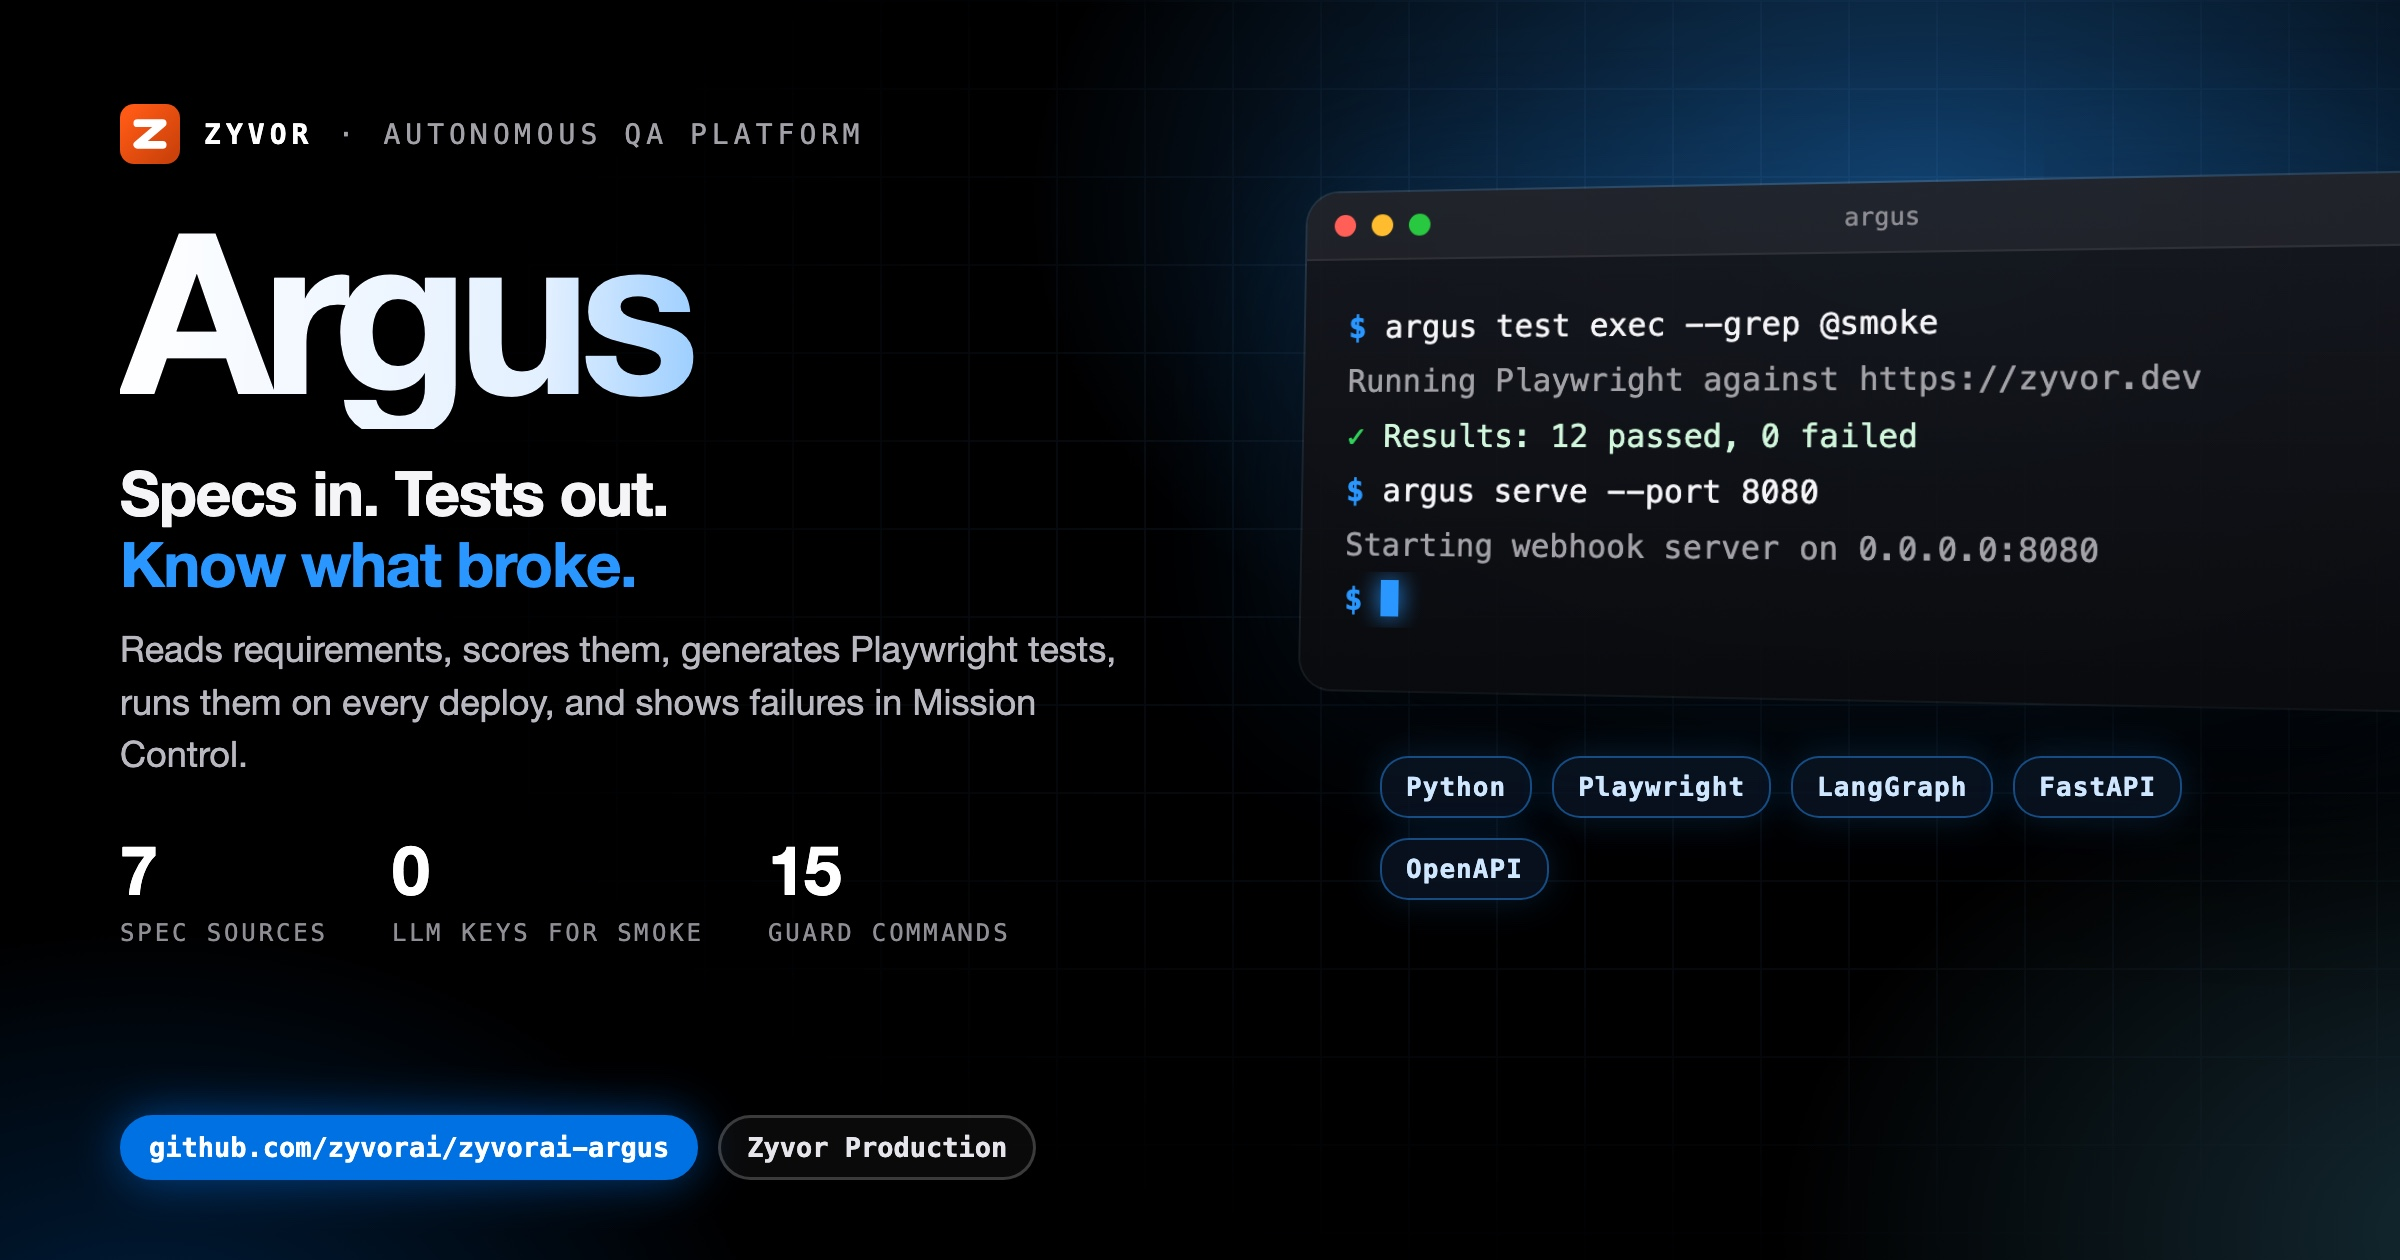
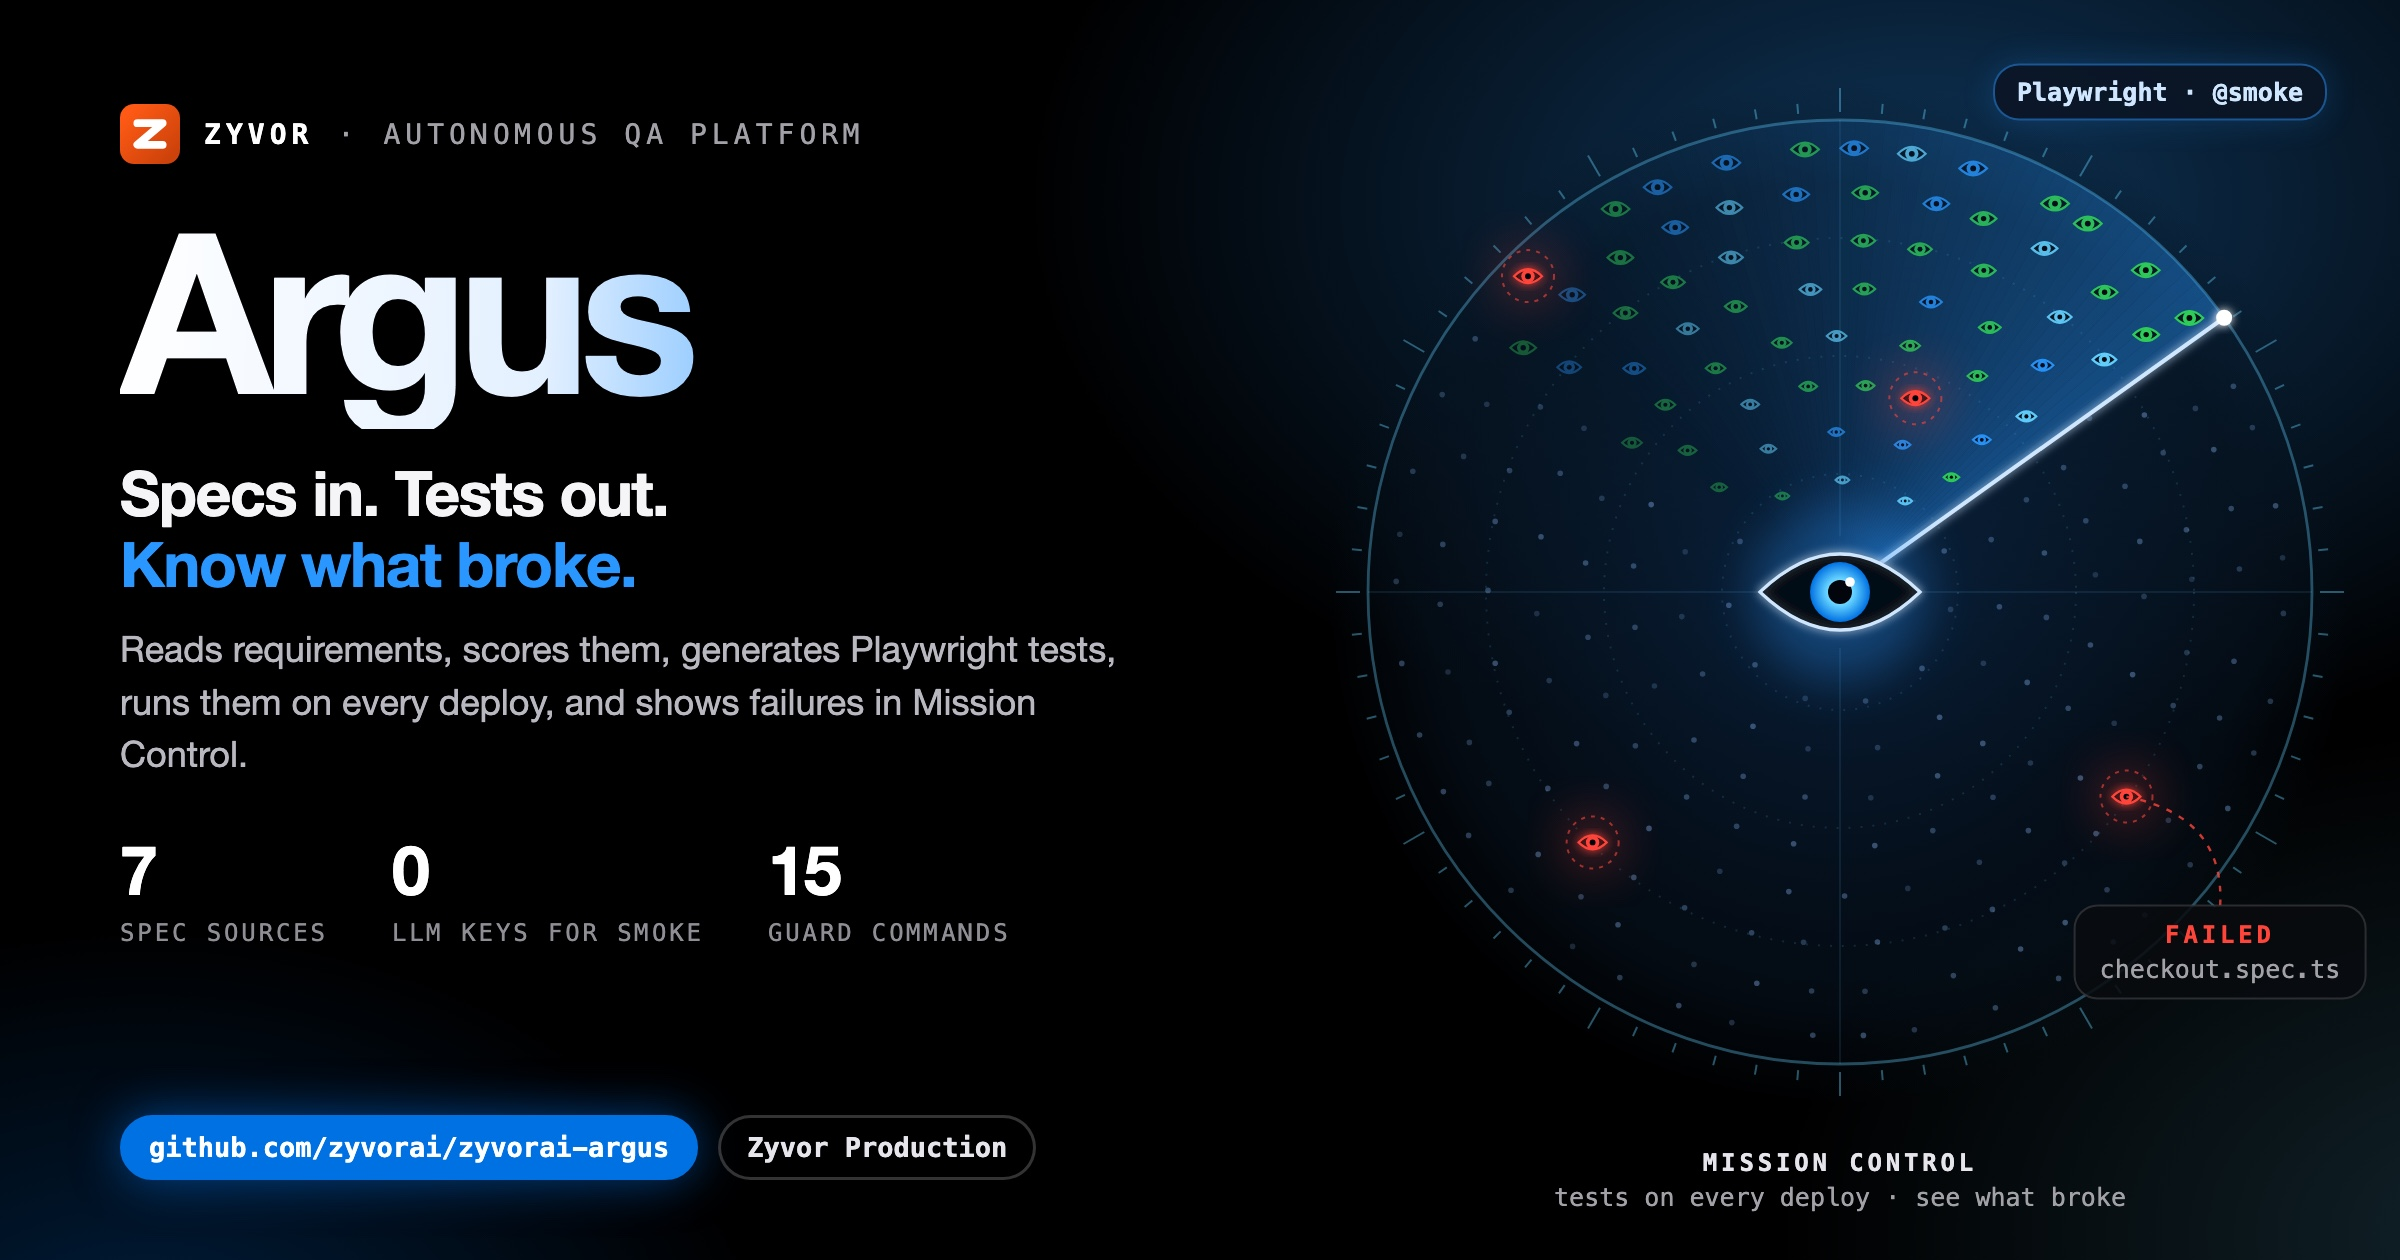
docs(social): unique illustrated hero card
Replace the shared terminal-window art with a motif drawn for this project;
same verified copy and stats on the left.

diff --git a/docs/social/argus-hero-dark.html b/docs/social/argus-hero-dark.html
@@ -8,58 +8,47 @@
   Build: ./docs/social/build-hero-dark.sh  ->  argus-hero-dark.jpg (2400x1260)
 -->
 <style>
-  :root { --blue:#0071e3; --signal:#2997ff; --cyan:#64d2ff; --green:#30d158; --amber:#ff9f0a;
+  :root { --blue:#0071e3; --signal:#2997ff; --cyan:#64d2ff; --green:#30d158; --amber:#ff9f0a; --red:#ff453a; --violet:#bf5af2;
     --sans:'SF Pro Display','Helvetica Neue',Helvetica,Arial,sans-serif; --mono:'SF Mono',Menlo,Consolas,monospace; }
   * { box-sizing:border-box; }
   html,body { margin:0; padding:0; }
   body { width:1200px; height:630px; overflow:hidden; color:#f5f5f7; font-family:var(--sans); position:relative; background:#000; }
   .aurora { position:absolute; inset:0;
-    background:radial-gradient(720px 460px at 80% 16%, rgba(41,151,255,.40), transparent 62%),
-               radial-gradient(600px 420px at 104% 98%, rgba(100,210,255,.20), transparent 60%),
+    background:radial-gradient(720px 460px at 80% 16%, rgba(41,151,255,.34), transparent 62%),
+               radial-gradient(600px 420px at 104% 98%, rgba(100,210,255,.16), transparent 60%),
                radial-gradient(520px 380px at 6% 110%, rgba(0,113,227,.28), transparent 60%); }
-  .grid { position:absolute; inset:0; opacity:.09;
-    background-image:linear-gradient(rgba(120,180,255,.9) 1px,transparent 1px),linear-gradient(90deg,rgba(120,180,255,.9) 1px,transparent 1px);
-    background-size:44px 44px; -webkit-mask-image:radial-gradient(900px 520px at 72% 42%, #000 18%, transparent 75%); }
-  .left { position:absolute; left:60px; top:52px; width:560px; z-index:3; }
+  .copy { position:absolute; left:60px; top:52px; width:560px; z-index:3; }
   .brand { display:flex; align-items:center; gap:12px; font-family:var(--mono); font-size:14px; letter-spacing:.18em; text-transform:uppercase; color:#a1a1a6; }
   .brand b { color:#fff; }
   .word { margin:20px 0 0; font-size:112px; line-height:.95; font-weight:800; letter-spacing:-.05em; white-space:nowrap;
     background:linear-gradient(92deg,#fff 0%,#e3f0ff 38%,var(--signal) 74%,var(--cyan) 100%); -webkit-background-clip:text; background-clip:text; color:transparent; padding-bottom:6px; }
   .tag { margin:14px 0 0; font-size:31px; line-height:1.15; font-weight:700; letter-spacing:-.02em; }
   .tag em { font-style:normal; color:var(--signal); }
-  .lede { margin:12px 0 0; font-size:18px; line-height:1.45; color:#b8b8bf; width:520px; }
+  .lede { margin:12px 0 0; font-size:18px; line-height:1.45; color:#b8b8bf; width:520px; text-shadow:0 1px 12px #000; }
   .stats { margin-top:24px; display:flex; gap:32px; }
   .stat b { display:block; font-size:34px; font-weight:800; letter-spacing:-.03em; color:#fff; }
   .stat span { font-family:var(--mono); font-size:12px; letter-spacing:.12em; text-transform:uppercase; color:#8e8e93; }
   .pill { position:absolute; left:60px; bottom:40px; display:flex; gap:10px; z-index:3; }
-  .pill span { font-family:var(--mono); font-size:13.5px; font-weight:700; padding:7px 13px; border-radius:18px; border:1.5px solid rgba(255,255,255,.2); color:#e5e5ea; background:rgba(255,255,255,.04); }
+  .pill span { font-family:var(--mono); font-size:13.5px; font-weight:700; padding:7px 13px; border-radius:18px; border:1.5px solid rgba(255,255,255,.2); color:#e5e5ea; background:rgba(0,0,0,.6); }
   .pill span.b { background:var(--blue); border-color:var(--blue); color:#fff; box-shadow:0 0 24px rgba(0,113,227,.55); }
-
-  .right { position:absolute; left:652px; top:96px; width:560px; z-index:2; }
-  .win { position:relative; width:560px; border-radius:16px; overflow:hidden; z-index:2;
-    background:linear-gradient(180deg, rgba(22,24,30,.94), rgba(10,11,14,.96));
-    box-shadow:0 50px 100px rgba(0,0,0,.75), 0 0 0 1px rgba(255,255,255,.14), 0 0 90px rgba(41,151,255,.22);
-    transform:perspective(1600px) rotateY(-14deg) rotateX(4deg); transform-origin:left center; }
-  .bar { height:34px; display:flex; align-items:center; gap:8px; padding:0 14px; background:rgba(255,255,255,.05); border-bottom:1px solid rgba(255,255,255,.07); }
-  .bar i { width:11px; height:11px; border-radius:50%; background:#ff5f57; } .bar i:nth-child(2){background:#febc2e} .bar i:nth-child(3){background:#28c840}
-  .bar em { margin-left:auto; margin-right:auto; font-style:normal; font-family:var(--mono); font-size:12px; color:#8e8e93; transform:translateX(-24px); }
-  .term { min-height:214px; padding:20px 22px 24px; font-family:var(--mono); font-size:15.5px; line-height:1.75; }
-  .l { white-space:pre; overflow:hidden; text-overflow:ellipsis; color:#f5f5f7; }
-  .l .p { color:var(--signal); font-weight:700; }
-  .l.out { color:#a1a1a6; }
-  .l.cm { color:#6e6e73; }
-  .l.ok { color:#d1f7dc; } .l.ok span { color:var(--green); font-weight:700; }
-  .l.warn { color:#ffe1b0; } .l.warn span { color:var(--amber); font-weight:700; }
-  .cur { display:inline-block; width:9px; height:18px; background:var(--signal); vertical-align:-3px; box-shadow:0 0 12px var(--signal); }
-  .chips { margin:34px 0 0 38px; width:480px; display:flex; flex-wrap:wrap; gap:10px; position:relative; z-index:3; }
-  .chips span { font-family:var(--mono); font-size:13px; font-weight:700; letter-spacing:.04em; padding:7px 12px; border-radius:14px;
-    color:#cfe6ff; background:rgba(10,20,35,.82); border:1px solid rgba(41,151,255,.45); box-shadow:0 0 18px rgba(41,151,255,.18); }
+  .art { position:absolute; left:520px; top:0; width:680px; height:630px; z-index:2; }
+  .art svg { display:block; }
+  #labels { position:absolute; inset:0; z-index:4; pointer-events:none; }
+  .lbl { position:absolute; font-family:var(--mono); font-size:12.5px; color:#a1a1a6; text-align:center; transform:translate(-50%,-50%); white-space:nowrap; }
+  .lbl b { display:block; font-size:12px; letter-spacing:.16em; text-transform:uppercase; color:#e5e5ea; }
+  .lbl span { display:block; margin-top:3px; }
+  .lbl.box { padding:7px 12px; border-radius:12px; background:rgba(8,10,14,.85); border:1px solid rgba(255,255,255,.14); }
+  .lbl.chip { padding:6px 11px; border-radius:13px; font-size:12.5px; font-weight:700; color:#cfe6ff; background:rgba(10,20,35,.85); border:1px solid rgba(41,151,255,.5); box-shadow:0 0 16px rgba(41,151,255,.2); }
+  .lbl.left { transform:translate(0,-50%); text-align:left; }
+  .lbl.right { transform:translate(-100%,-50%); text-align:right; }
+  .ok { color:var(--green) !important; } .warn { color:var(--amber) !important; } .bad { color:var(--red) !important; } .sig { color:var(--signal) !important; } .cy { color:var(--cyan) !important; } .vi { color:var(--violet) !important; }
 </style>
 </head>
 <body>
 <div class="aurora"></div>
-<div class="grid"></div>
-<div class="left">
+<div class="art"><svg id="art" width="680" height="630" viewBox="0 0 680 630" xmlns="http://www.w3.org/2000/svg"></svg></div>
+<div id="labels"></div>
+<div class="copy">
   <div class="brand"><svg viewBox="0 0 64 64" width="30" height="30" aria-hidden="true"><defs><linearGradient id="zb" x1="8" y1="8" x2="56" y2="56" gradientUnits="userSpaceOnUse"><stop offset="0" stop-color="#ff5a15"/><stop offset="1" stop-color="#cc420a"/></linearGradient></defs><rect width="64" height="64" rx="15" fill="url(#zb)"/><path d="M18.5,20.5 45.5,20.5 18.5,43.5 45.5,43.5" fill="none" stroke="#fff" stroke-width="8.3" stroke-linecap="round" stroke-linejoin="round"/></svg><b>Zyvor</b><span>&middot;</span><span>Autonomous QA platform</span></div>
   <div class="word">Argus</div>
   <div class="tag">Specs in. Tests out.<br><em>Know what broke.</em></div>
@@ -67,8 +56,107 @@
   <div class="stats"><div class="stat"><b>7</b><span>spec sources</span></div><div class="stat"><b>0</b><span>LLM keys for smoke</span></div><div class="stat"><b>15</b><span>guard commands</span></div></div>
 </div>
 <div class="pill"><span class="b">github.com/zyvorai/zyvorai-argus</span><span>Zyvor Production</span></div>
-<div class="right"><div class="win"><div class="bar"><i></i><i></i><i></i><em>argus</em></div>
-<div class="term"><div class="l"><span class="p">$</span> argus test exec --grep @smoke</div><div class="l out">Running Playwright against https://zyvor.dev</div><div class="l ok"><span>&#10003;</span> Results: 12 passed, 0 failed</div><div class="l"><span class="p">$</span> argus serve --port 8080</div><div class="l out">Starting webhook server on 0.0.0.0:8080</div><div class="l"><span class="p">$</span> <i class="cur"></i></div></div></div>
-<div class="chips"><span>Python</span><span>Playwright</span><span>LangGraph</span><span>FastAPI</span><span>OpenAPI</span></div></div>
+<script>
+var Z = (function () {
+  var NS = 'http://www.w3.org/2000/svg', svg = document.getElementById('art'), labels = document.getElementById('labels');
+  var seed = 20261004;
+  function rnd() { seed = (seed * 1103515245 + 12345) % 2147483648; return seed / 2147483648; }
+  function el(tag, a, parent) { var n = document.createElementNS(NS, tag); for (var k in a) n.setAttribute(k, a[k]); (parent || svg).appendChild(n); return n; }
+  function g(attrs) { return el('g', attrs || {}); }
+  function label(x, y, inner, cls, style) { var d = document.createElement('div'); d.className = 'lbl ' + (cls || ''); d.style.left = (520 + x) + 'px'; d.style.top = y + 'px'; if (style) d.setAttribute('style', d.getAttribute('style') + ';' + style); d.innerHTML = inner; labels.appendChild(d); return d; }
+  return { NS: NS, svg: svg, W: 680, H: 630, rnd: rnd, el: el, g: g, label: label,
+    reseed: function (s) { seed = s; },
+    c: { blue: '#0071e3', signal: '#2997ff', cyan: '#64d2ff', green: '#30d158', amber: '#ff9f0a', red: '#ff453a', violet: '#bf5af2', teal: '#40c8e0', indigo: '#5e5ce6', pink: '#ff375f', white: '#f5f5f7', grey: '#8e8e93' } };
+})();
+(function () {
+// Argus: the hundred-eyed watcher. A polar field of tiny eyes (tests); a radar sweep wakes them up.
+// Passing tests open green/blue, a few failures stare back red and are flagged to Mission Control.
+var C = Z.c, cx = 400, cy = 296, R = 236;
+var defs = Z.el('defs', {});
+defs.innerHTML = '<filter id="arGl" x="-50%" y="-50%" width="200%" height="200%"><feGaussianBlur stdDeviation="2.4" result="b"/><feMerge><feMergeNode in="b"/><feMergeNode in="SourceGraphic"/></feMerge></filter>' +
+  '<filter id="arSf" x="-50%" y="-50%" width="200%" height="200%"><feGaussianBlur stdDeviation="12"/></filter>' +
+  '<radialGradient id="arDisc"><stop offset="0" stop-color="#0a2340" stop-opacity=".85"/><stop offset=".8" stop-color="#06121f" stop-opacity=".6"/><stop offset="1" stop-color="#06121f" stop-opacity="0"/></radialGradient>' +
+  '<radialGradient id="arIris"><stop offset="0" stop-color="#ffffff"/><stop offset=".45" stop-color="#64d2ff"/><stop offset="1" stop-color="#0071e3"/></radialGradient>';
+
+Z.el('circle', { cx: cx, cy: cy, r: R + 20, fill: 'url(#arDisc)' });
+// range rings and bearing ticks
+[0.25, 0.5, 0.75, 1].forEach(function (f, i) {
+  Z.el('circle', { cx: cx, cy: cy, r: R * f, fill: 'none', stroke: 'rgba(100,210,255,' + (i === 3 ? .35 : .14) + ')', 'stroke-width': i === 3 ? 1.4 : 1, 'stroke-dasharray': i === 3 ? 'none' : '1 5' });
+});
+for (var k = 0; k < 72; k++) {
+  var a = k / 72 * Math.PI * 2, l = k % 6 === 0 ? 12 : 5;
+  Z.el('line', { x1: cx + (R + 4) * Math.cos(a), y1: cy + (R + 4) * Math.sin(a), x2: cx + (R + 4 + l) * Math.cos(a), y2: cy + (R + 4 + l) * Math.sin(a), stroke: 'rgba(100,210,255,.4)', 'stroke-width': 1 });
+}
+[0, 1, 2, 3].forEach(function (q) {
+  var a = q * Math.PI / 2;
+  Z.el('line', { x1: cx + 28 * Math.cos(a), y1: cy + 28 * Math.sin(a), x2: cx + R * Math.cos(a), y2: cy + R * Math.sin(a), stroke: 'rgba(100,210,255,.1)' });
+});
+
+// sweep wedge (trail fades counter-clockwise behind the beam)
+var SW = -0.62, TRAIL = 1.9, steps = 60;
+for (var s = 0; s < steps; s++) {
+  var a1 = SW - s / steps * TRAIL, a0 = SW - (s + 1) / steps * TRAIL;
+  var p0x = cx + R * Math.cos(a0), p0y = cy + R * Math.sin(a0), p1x = cx + R * Math.cos(a1), p1y = cy + R * Math.sin(a1);
+  Z.el('path', { d: 'M' + cx + ',' + cy + ' L' + p0x.toFixed(1) + ',' + p0y.toFixed(1) + ' A' + R + ',' + R + ' 0 0 1 ' + p1x.toFixed(1) + ',' + p1y.toFixed(1) + 'Z',
+    fill: '#2997ff', opacity: (0.42 * Math.pow(1 - s / steps, 1.8)).toFixed(3) });
+}
+
+// eyes on polar rings
+function eye(x, y, w, col, op, pupil) {
+  var g = Z.g({ transform: 'translate(' + x.toFixed(1) + ',' + y.toFixed(1) + ')', opacity: op.toFixed(2) });
+  var h = w * 0.62;
+  Z.el('path', { d: 'M' + (-w) + ',0 Q0,' + (-h * 1.6) + ' ' + w + ',0 Q0,' + (h * 1.6) + ' ' + (-w) + ',0Z', fill: 'rgba(4,10,18,.85)', stroke: col, 'stroke-width': 1.1 }, g);
+  Z.el('circle', { cx: 0, cy: 0, r: h * 0.78, fill: col }, g);
+  if (pupil) Z.el('circle', { cx: 0, cy: 0, r: h * 0.34, fill: '#02060c' }, g);
+  return g;
+}
+var failSpots = [[222, -2.35], [176, 2.35], [176, 0.62], [104, -1.2]].map(function (q) { return { x: cx + q[0] * Math.cos(q[1]), y: cy + q[0] * Math.sin(q[1]), w: 5.5 }; });
+var fails = failSpots, rings = [56, 80, 104, 128, 152, 176, 200, 222];
+rings.forEach(function (r, ri) {
+  var n = Math.round(r / 5.2), off = Z.rnd() * Math.PI;
+  for (var j = 0; j < n; j++) {
+    var a = off + j / n * Math.PI * 2 + (Z.rnd() - .5) * 0.08, x = cx + r * Math.cos(a), y = cy + r * Math.sin(a);
+    var behind = SW - Math.atan2(Math.sin(a), Math.cos(a));
+    while (behind < 0) behind += Math.PI * 2;
+    while (behind > Math.PI * 2) behind -= Math.PI * 2;
+    var w = 3.4 + ri * 0.5;
+    if (failSpots.some(function (f) { return Math.abs(f.x - x) < 15 && Math.abs(f.y - y) < 15; })) continue;
+    if (behind < TRAIL) {
+      var f = 1 - behind / TRAIL;
+      var col = Z.rnd() < 0.55 ? C.green : (Z.rnd() < 0.5 ? C.cyan : C.signal);
+      eye(x, y, w, col, 0.35 + f * 0.65, true);
+    } else {
+      Z.el('circle', { cx: x.toFixed(1), cy: y.toFixed(1), r: 1.4, fill: '#8fbfff', opacity: (0.18 + Z.rnd() * 0.2).toFixed(2) });
+    }
+  }
+});
+// failures always stare back
+fails.forEach(function (f) {
+  Z.el('circle', { cx: f.x, cy: f.y, r: 16, fill: C.red, opacity: .25, filter: 'url(#arSf)' });
+  Z.el('circle', { cx: f.x, cy: f.y, r: 13, fill: 'none', stroke: C.red, 'stroke-width': 1, opacity: .6, 'stroke-dasharray': '2 3' });
+  var g = eye(f.x, f.y, f.w + 1.5, C.red, 1, true); g.setAttribute('filter', 'url(#arGl)');
+});
+
+// beam
+var bx = cx + R * Math.cos(SW), by = cy + R * Math.sin(SW);
+Z.el('line', { x1: cx, y1: cy, x2: bx, y2: by, stroke: '#cfe6ff', 'stroke-width': 2, filter: 'url(#arGl)' });
+Z.el('circle', { cx: bx, cy: by, r: 4, fill: '#fff', filter: 'url(#arGl)' });
+
+// central great eye
+Z.el('circle', { cx: cx, cy: cy, r: 44, fill: '#2997ff', opacity: .3, filter: 'url(#arSf)' });
+Z.el('path', { d: 'M' + (cx - 40) + ',' + cy + ' Q' + cx + ',' + (cy - 38) + ' ' + (cx + 40) + ',' + cy + ' Q' + cx + ',' + (cy + 38) + ' ' + (cx - 40) + ',' + cy + 'Z', fill: 'rgba(4,10,18,.95)', stroke: '#cfe6ff', 'stroke-width': 1.6, filter: 'url(#arGl)' });
+Z.el('circle', { cx: cx, cy: cy, r: 15, fill: 'url(#arIris)' });
+Z.el('circle', { cx: cx, cy: cy, r: 6, fill: '#02060c' });
+Z.el('circle', { cx: cx + 5, cy: cy - 5, r: 2.4, fill: '#fff' });
+
+// flag the worst failure to Mission Control
+var F = fails[2];
+var lx = 590, ly = 470;
+Z.el('path', { d: 'M' + F.x.toFixed(1) + ',' + F.y.toFixed(1) + ' Q' + (F.x + 50).toFixed(1) + ',' + (F.y + 10).toFixed(1) + ' ' + lx + ',' + (ly - 16), fill: 'none', stroke: C.red, 'stroke-width': 1.2, 'stroke-dasharray': '3 4', opacity: .8 });
+Z.label(lx, ly + 6, '<b class="bad">failed</b><span>checkout.spec.ts</span>', 'box');
+Z.label(cx, 590, '<b>Mission Control</b><span>tests on every deploy &middot; see what broke</span>');
+Z.label(560, 46, 'Playwright &middot; @smoke', 'chip');
+})();
+</script>
 </body>
 </html>
